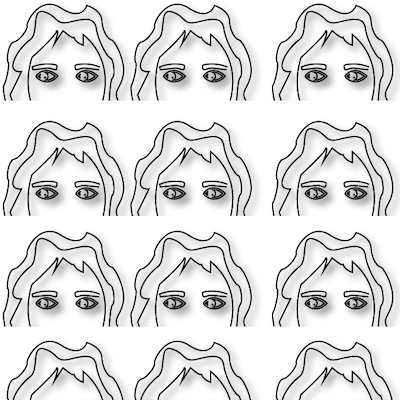
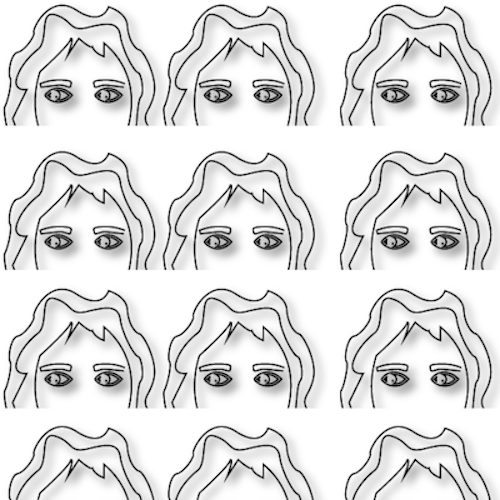
Adjusts outline sizes, makes p5js background scrollable

diff --git a/style.css b/style.css
@@ -1,17 +1,14 @@
 
-/* html, body {
+html, body {
   margin: 0;
   padding: 0;
   font-family:'Roboto', sans-serif;
   background-color: rgb(255, 255, 255);
-} */
-html, body {
-  margin: 0;
-  padding: 0;
 }
+
 canvas {
   display: block;
-  /* z-index: -1; */
+  z-index: -1;
 }
 
 #myName {
@@ -21,7 +18,11 @@ canvas {
   font-family: stereofidelic;
   font-size: 50px;
 }
+#defaultCanvas0 {
+  display: block;
+  z-index: -1;
 
+}
 a:link {
   display: inline-block;
   padding: 3px;
@@ -83,7 +84,7 @@ td {
 }
 
 .container{
-  position: absolute;
+  position: relative;
 }
 
 .project {

diff --git a/sketch.js b/sketch.js
@@ -7,13 +7,9 @@ function preload() {
 function setup() {
   //runs once
   //square design, same width and height
-  let canvas = createCanvas(windowWidth, windowHeight);
-  canvas.parent('sketch-container');
-  //upper left corner = (0,0)
-  //as x moves to the right it is increasing, as y moves down it is increasing
-  //bottom right corner is (720, 720)
-  //fill("red"); //filling the square with red
-  //strokeWeight(1); //stroke weight of the square
+  createCanvas(2 * windowWidth, 2 * windowHeight);
+  // createCanvas(windowWidth, windowHeight);
+
   background(0,0,0);
 }
 

diff --git a/index.html b/index.html
@@ -17,7 +17,6 @@
       </a>
     </p>
     <script src="sketch.js"></script>
-  <div id="sketch-container">
     <table id = "table">
   <!-- within these tags that we will add information for our table that will allow you to incorporate
   your projects into your main page  -->
@@ -58,7 +57,9 @@
       </tr>
 
     </table>
-  </div>
+    <main>
+      <canvas id="defaultCanvas0" class="p5Canvas" width="885" height="1456" style="width: 885px; height: 1456px; position: absolute"></canvas>
+    </main>
   </body>
 
 </html>
